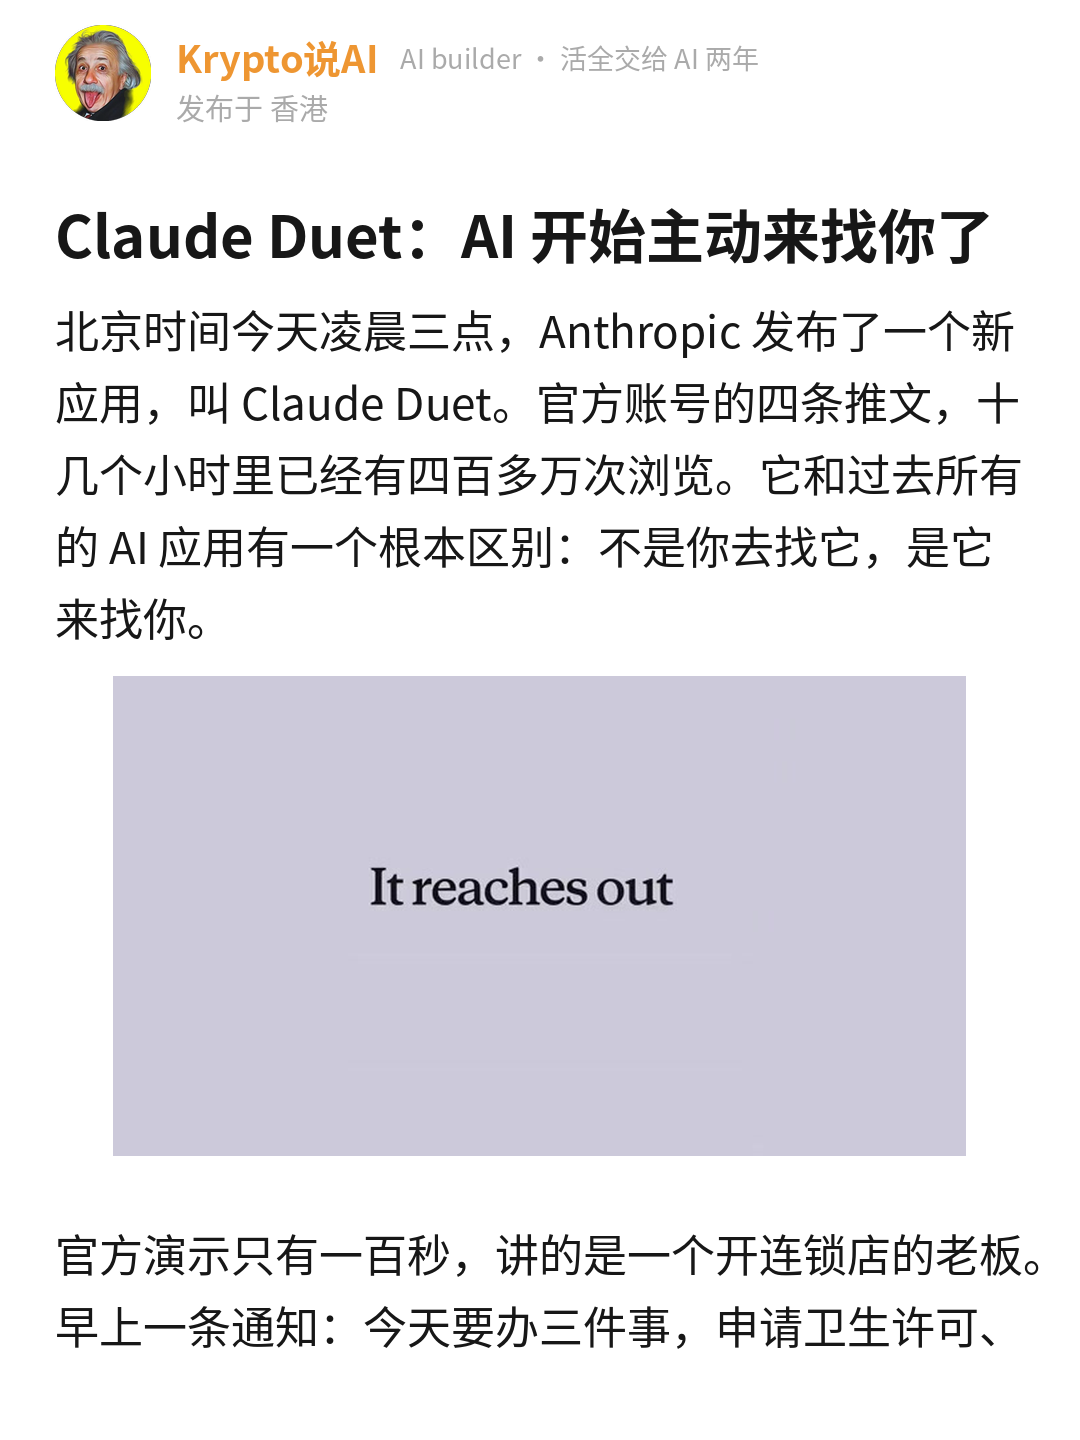
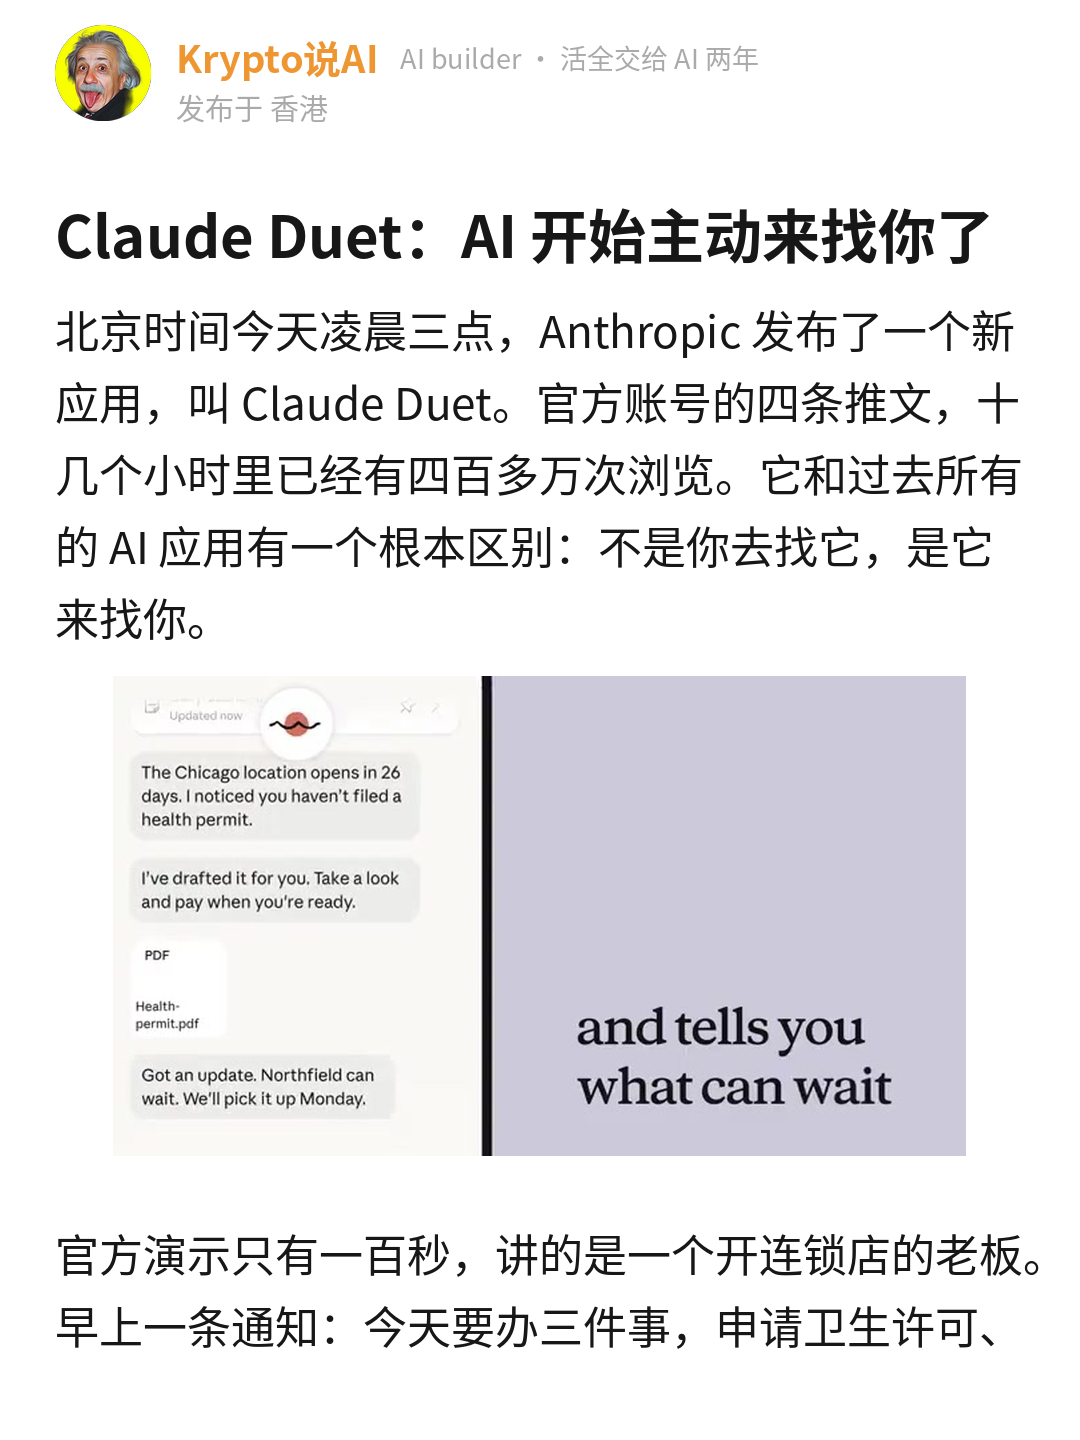
Claude Duet 稿首图换成带内容的手机帧
Claude-Session: https://claude.ai/code/session_017tvE9f3JBJNdHBN9dZEhix

Changed region(s): [[0.0917, 0.4688, 0.6417, 0.8125], [0.5194, 0.6875, 0.825, 0.7812]]

diff --git a/发布/2026-10-22_claude-duet/meme-v2版/编辑用/draft.md b/发布/2026-10-22_claude-duet/meme-v2版/编辑用/draft.md
@@ -10,7 +10,7 @@ cost: 做了一堆看板和监控，几天没盯，停了更新都没发现，bu
 keyword: Claude Duet
 keywords: Anthropic, Claude, AI agent
 headline: Claude Duet：AI 开始主动来找你了
-hero: shots/02_reaches_out.jpg
+hero: shots/02b_phone_draft.jpg
 hero_after: 1
 location: 香港
 account: Krypto说AI
